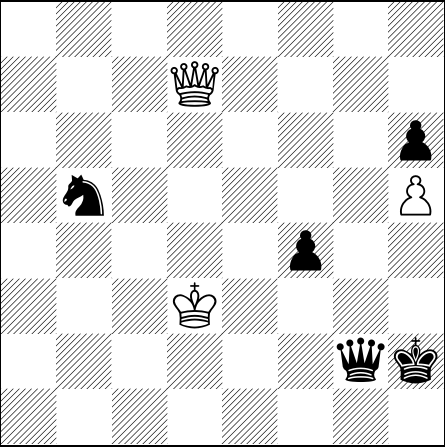
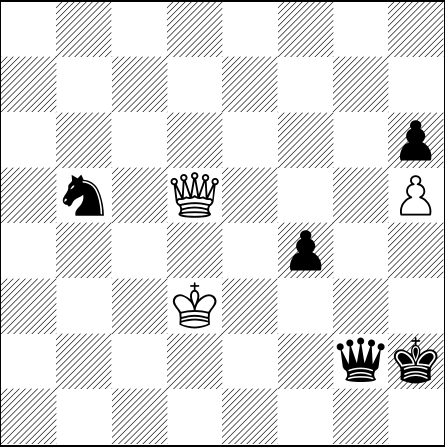
[automated] Regenerate text/pdf for chessboard

Changed region(s): [[0.3798, 0.3781, 0.4966, 0.4944], [0.3798, 0.1163, 0.4966, 0.2617]]

diff --git a/default_filepath.tex b/default_filepath.tex
@@ -13,6 +13,6 @@
 \normalsize%
 \setchessboard{showmover=false}%
 \newgame%
-\fenboard{8/3Q4/7p/1n5P/5p2/3K4/6qk/8 w - - 4 143}%
+\fenboard{8/8/7p/1n1Q3P/5p2/3K4/6qk/8 b - - 5 143}%
 \chessboard%
 \end{document}
